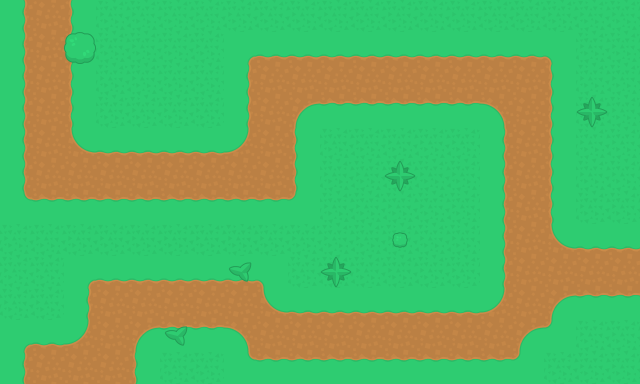
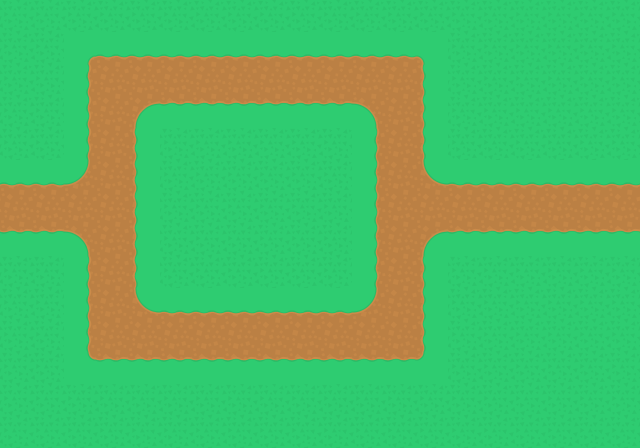
Added map for level 3

diff --git a/src/gameplay.js b/src/gameplay.js
@@ -5,14 +5,15 @@ class Gameplay extends Phaser.Scene {
     this.nearBy = 4;
     this.levelLocked = [false, false, false];
     this.maxLevel = 3;
+    this.unlockedLevel = 1;
     // Resources
     this.resource = 2000;
     this.resourceTo = 2000;
     this.resourceMap = [200, 250]; // 200 pts for level 1 tanks, 250 for level 2 tanks
 
     // Health
-    this.health = 200;
-    this.healthTo = 200;
+    this.health = 2000;
+    this.healthTo = 2000;
     this.healthConstOnTankObjectiveReached = 300;
     this.healthCostOnTowerDestroyed = 200;
 
@@ -21,8 +22,8 @@ class Gameplay extends Phaser.Scene {
 
     /** Tanks configs */
     this.listTanks = [];
-    this.maxTank = [1, 2, 1]; //[4, 8, 12];
-    this.maxWave = [1, 2, 1]; //[2, 5, 8];
+    this.maxTank = [2, 2, 2]; //[4, 8, 12];
+    this.maxWave = [2, 2, 2]; //[2, 5, 8];
     this.currentWave = 1;
     this.tankDestroyed = 0;
     this.tankspawned = 0;
@@ -53,16 +54,16 @@ class Gameplay extends Phaser.Scene {
 
     // Level 3
     this.pathsX[2] = [];
-    this.pathsX[2][1] = [1, 1, 8, 8, 16, 16, 19];
-    this.pathsX[2][2] = [1, 3, 3, 7, 8, 15, 16, 17, 19];
-
     this.pathsY[2] = [];
-    this.pathsY[2][1] = [0, 5, 5, 2, 2, 8, 8];
-    this.pathsY[2][2] = [11, 11, 9, 9, 10, 10, 9, 8, 8];
+    this.pathsX[2][1] = [0, 2, 3, 3, 12, 12, 13, 19];
+    this.pathsY[2][1] = [6, 6, 5, 2, 2, 5, 6, 6];
+
+    this.pathsX[2][2] = [0, 2, 3, 3, 12, 12, 13, 19];
+    this.pathsY[2][2] = [6, 6, 7, 10, 10, 7, 6, 6];
 
     // Tank objective per level
     this.tankObjectiveX = [19, 19, 19];
-    this.tankObjectiveY = [8, 7, 8];
+    this.tankObjectiveY = [8, 7, 6];
     this.tankSpawnDelay = 1500;
 
     /**  Tower configs */
@@ -79,8 +80,8 @@ class Gameplay extends Phaser.Scene {
     this.defPositionsX[1] = [1, 1, 5, 5, 12, 12, 17, 17];
     this.defPositionsY[1] = [5, 8, 5, 8, 5, 9, 5, 9];
     // Level 3
-    this.defPositionsX[2] = [1, 3, 4, 7, 10, 14, 14, 18, 18];
-    this.defPositionsY[2] = [7, 2, 7, 7, 4, 4, 8, 6, 10];
+    this.defPositionsX[2] = [5, 5, 10, 10];
+    this.defPositionsY[2] = [4, 8, 4, 8];
 
     this.listDefPositions = [];
 
@@ -597,8 +598,8 @@ class Gameplay extends Phaser.Scene {
     this.clearLevelSelection();
     this.resource = 2000;
     this.resourceTo = 2000;
-    this.health = 200;
-    this.healthTo = 200;
+    this.health = 2000;
+    this.healthTo = 2000;
 
     this.resourceText.text = "Ressources : " + Math.floor(this.resource);
     this.healthText.text = "Santé : " + Math.floor(this.health);
@@ -652,7 +653,8 @@ class Gameplay extends Phaser.Scene {
   clearLevelSelection() {
     this.children.getAll().forEach((child) => {
       child.visible = true;
-      child.alpha = 1;
+      if (child.visible === true)
+        this.animateAlpha(child, child.alpha, 1, 0.01);
     });
 
     this.titleSelection.visible = false;
@@ -1031,9 +1033,9 @@ class Gameplay extends Phaser.Scene {
 
     setTimeout(() => {
       if (this.levelVictory) {
-        this.currentLevel++;
-        if (this.currentLevel <= this.maxLevel) {
-          this.levelLocked[this.currentLevel - 1] = false;
+        this.unlockedLevel++;
+        if (this.unlockedLevel <= this.maxLevel) {
+          this.levelLocked[this.unlockedLevel - 1] = false;
         }
       }
       this.showLevelSelection();
@@ -1122,7 +1124,7 @@ class Gameplay extends Phaser.Scene {
     this.input.on("pointerout", this.onPointerOut, this);
 
     // this.showLevelSelection();
-    this.startLevel(2);
+    this.startLevel(3);
   }
 
   update(time) {

diff --git a/Readme.md b/Readme.md
@@ -2,6 +2,16 @@
 
 ## Thème : Explosion en chaine
 
+Détruis tous les tanks ou survi à leur passage
+
+Tu perd des points de santé quant :
+
+- Tu perd une tours
+- Un tank arrive à l'autre bout de l'écran
+
+Tu gagne des point de ressources quand tu détruis un tank.
+Avec ces points tu installe de nouvelles tours pour faire face aux ennemis.
+
 ### Liste des tâches
 
 A. MVP : 5 Pomodoros
@@ -41,7 +51,7 @@ E. Gestion du score: 10 Pomodoros + 10"
 - [x] Animations
 - [x] Condition de victoire
 
-F. Final : 7 Pomodoros
+F. Final : 9 Pomodoros
 
 - [x] Étendre à plusieurs niveaux
 - [] Polish
